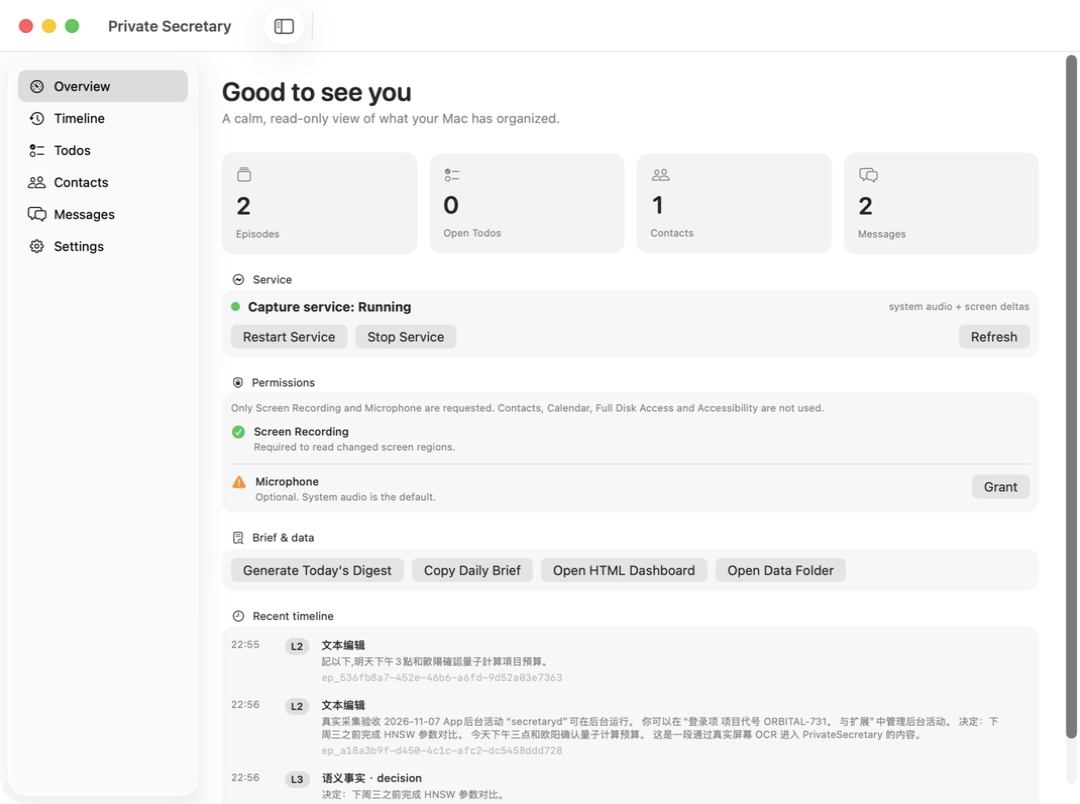
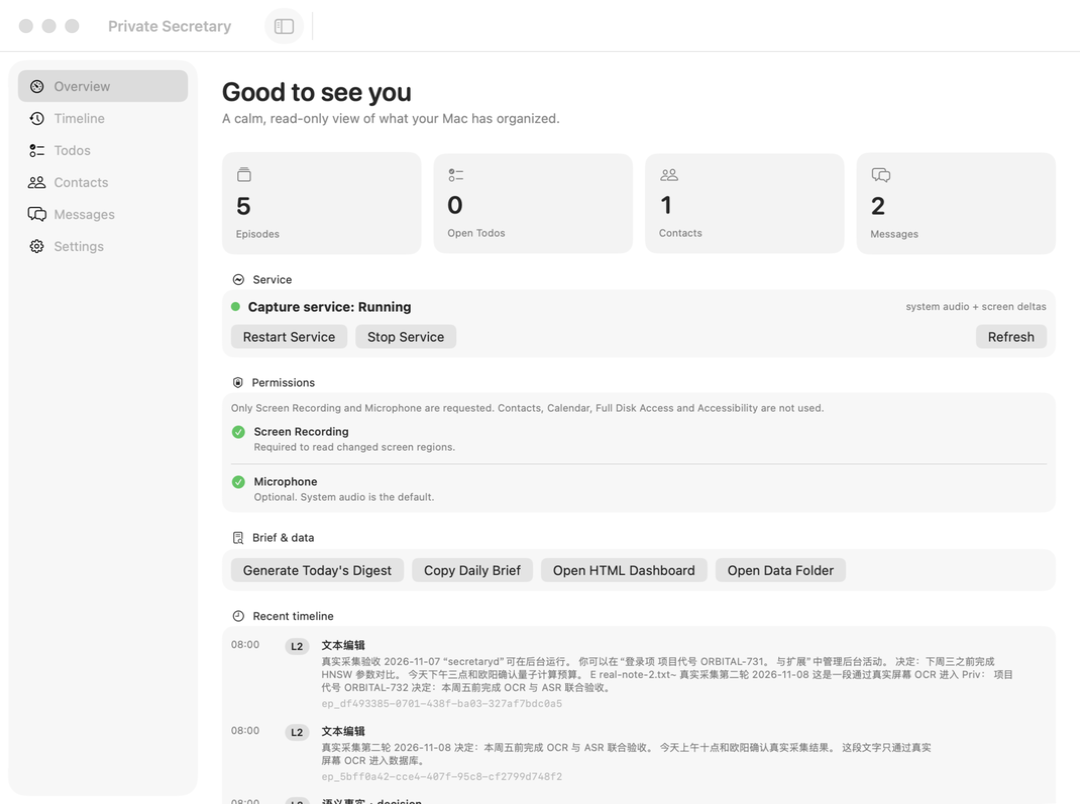
test: add second live OCR/ASR round and real-data review acceptance

diff --git a/docs/REAL-DATA-E2E-REPORT.md b/docs/REAL-DATA-E2E-REPORT.md
@@ -71,7 +71,29 @@ ep_536fb8a7-452e-46b6-a6fd-9d52a03e7363
 
 按产品规则，**system audio 不生成 todo**，所以这条只进入 L2 记忆。
 
-### 2.3 渠道消息
+### 2.3 第二轮真实采集（2026-11-08）
+
+继续在同一个真实 daemon 上展示新文件并播放新语音：
+
+```text
+真实采集第二轮 2026-11-08
+项目代号 ORBITAL-732。
+决定：本周五前完成 OCR 与 ASR 联合验收。
+今天上午十点和欧阳确认真实采集结果。
+```
+
+产生：
+
+```text
+ep_df493385-...  屏幕切换/旧+新内容 OCR
+ep_5bff0a42-...  ORBITAL-732 屏幕 OCR
+ep_0f6b7ef5-...  ASR：記一下,本週五前完成真實屏幕和語音的聯合宴收。
+fact_0a345915-...  真实采集第二轮 ... 决定：本周五前完成 OCR 与 ASR 联合验收。
+```
+
+这条 pending fact 随后通过 MCP `review_fact(action:"accept")` 接受，pendingReviewFacts 回到 0。
+
+### 2.4 渠道消息
 
 没有微信/邮件账号，无法伪造“真实平台 API”；以下通过产品自带的本地 channel adapter 路径（`message import`）导入真实测试文本：
 
@@ -84,17 +106,17 @@ ep_536fb8a7-452e-46b6-a6fd-9d52a03e7363
 
 ```text
 Private Secretary 3.2.1
-Memory:   2 episodes · 1 fact
+Memory:   5 episodes · 2 facts
 People:   1 contact · 2 messages
 Todos:    1 todo (done)
-Digests:  1
+Digests:  2
 Capture:  running — system audio + screen deltas
 ```
 
 MCP `get_status` 返回：
 
 ```text
-activeFacts=1 episodes=2 contacts=1 messages=2 openTodos=0 pendingReviewFacts=0
+activeFacts=2 episodes=5 contacts=1 messages=2 openTodos=0 pendingReviewFacts=0
 capture.state=running
 ```
 
@@ -108,7 +130,7 @@ Peekaboo 4.9.8 通过 Bridge 驱动真实 `PrivateSecretary.app`。
 
 验证：
 
-- Episodes = 2；
+- Episodes = 5；
 - Open Todos = 0（todo 已通过 UI 标记 done）；
 - Contacts = 1；
 - Messages = 2；
@@ -185,7 +207,7 @@ Peekaboo Settings 验证：
 
 Peekaboo Overview：
 
-- 点击 **Generate Today's Digest**：生成真实日报，含 2 个 episodes、1 fact、1 done todo；
+- 点击 **Generate Today's Digest**：生成真实日报，最终含 5 个 episodes、2 facts、1 done todo；
 - 点击 **Copy Daily Brief**：剪贴板得到真实 timeline/todo/unread/contacts；
 - 点击 **Open HTML Dashboard**：生成 `exports/dashboard-2026-11-07.html`（0600），含 Timeline / Open todos / Unread messages / Contacts。
 
@@ -199,6 +221,7 @@ tools 19
 get_status: episodes=2, facts=1, contacts=1, messages=2, todos=0 open
 get_brief: timeline=3, unread=1, contacts=1
 recall("ORBITAL-731"): 1 result
+recall("ORBITAL-732"): 1 result
 list_todos(all): [('完成 ORBITAL-731 的 HNSW 参数对比','done')]
 list_messages: lark read, email read
 ```
@@ -244,5 +267,5 @@ peekaboo see --app com.privatesecretary.app --mode window --json
 
 ## 9. 结论
 
-真实 OCR、真实系统音频 ASR、L2/L3、真实 UI 浏览/搜索/输入/todo 状态/已读、digest、dashboard、clipboard、MCP 均通过。  
+真实 OCR、真实系统音频 ASR（两轮）、L2/L3、真实 UI 浏览/搜索/输入/todo 状态/已读、review accept、digest、dashboard、clipboard、MCP 均通过。  
 唯一阻断“安装后自动采集”的是 `PrivateSecretary.app` 的 GUI TCC 授权，需要在系统设置中手动打开一次。

diff --git a/CHANGELOG.md b/CHANGELOG.md
@@ -4,7 +4,7 @@
 
 真实采集验证与小修复。
 
-- 真实 OCR/ASR 采集测试：2 episodes、1 fact、1 todo、1 contact、2 messages。
+- 真实 OCR/ASR 采集测试：5 episodes、2 facts、1 todo、1 contact、2 messages。
 - 修复 LaunchAgent consolidate 模板占位符导致的 CLI 路径错误。
 - 菜单栏改为 `NSStatusItem` + AppKit 窗口；刘海屏遮挡时自动切 Dock/窗口 fallback。
 - 增加真实采集 E2E 报告和截图。
@@ -22,7 +22,7 @@
 - `scripts/install-agent.sh`：Codex / Claude Desktop / Cursor / generic MCP 配置。
 - `AGENT-INTEGRATION.md`、`AGENT-POLICY.md`、generic MCP 示例。
 - `make app-test`、`make agent-test`。
-- 真实采集验证：ScreenCaptureKit 屏幕 OCR + 系统音频 whisper.cpp，2 episodes / 1 fact / 1 todo / 1 contact / 2 messages。
+- 真实采集验证：ScreenCaptureKit 屏幕 OCR + 系统音频 whisper.cpp，5 episodes / 2 facts / 1 todo / 1 contact / 2 messages。
 - 修复 LaunchAgent consolidate 模板占位符，新增 install-test 断言。
 - 菜单栏 App 改为 `NSStatusItem` + AppKit 窗口；刘海屏 status item 被遮挡时自动切 Dock/窗口 fallback。
 

diff --git a/README.md b/README.md
@@ -25,7 +25,7 @@
 | Vision OCR | 本机真实图片识别通过 |
 | whisper.cpp ASR | 本机真实语音模型调用通过（可选模型） |
 | 本地软件栈 E2E | **通过**（socket → SQLite → MCP → CLI → dashboard → digest） |
-| 真实采集 E2E | **通过**：2 条真实 OCR/ASR episode、1 fact、1 todo、联系人消息、UI/MCP 全链路 |
+| 真实采集 E2E | **通过**：5 条真实 OCR/ASR episode、2 facts、1 todo、联系人消息、review、UI/MCP 全链路 |
 | ScreenCaptureKit | **真实屏幕 OCR + 系统音频 ASR 已验证**（见真实采集报告）；App 自身 TCC 仍需授权 |
 | LaunchAgent 安装 | 隔离 HOME 安装/卸载/清除通过；真实登录会话未测试 |
 | Codex 模型驱动闭环 | 未完成（本机账户模型不支持 + usage limit） |

diff --git a/docs/TEST-REPORT.md b/docs/TEST-REPORT.md
@@ -251,7 +251,7 @@ SOAK PASSED (p95 target 120ms)
 
 ## 9.1 真实采集
 
-真实屏幕 OCR、系统音频 ASR、App UI（Peekaboo）、MCP 真实数据测试见 [真实采集 E2E 报告](REAL-DATA-E2E-REPORT.md)。本轮真实数据为 2 episodes、1 fact、1 todo、1 contact、2 messages、1 digest。
+真实屏幕 OCR、系统音频 ASR、App UI（Peekaboo）、MCP 真实数据测试见 [真实采集 E2E 报告](REAL-DATA-E2E-REPORT.md)。本轮真实数据为 5 episodes、2 facts、1 todo、1 contact、2 messages、2 digests。
 
 ## 10. E2E
 

diff --git a/docs/E2E-TEST-REPORT.md b/docs/E2E-TEST-REPORT.md
@@ -111,7 +111,7 @@ make agent-test
 Screen Recording: Granted（Terminal 启动的 daemon）
 真实系统音频 ASR: 通过（whisper.cpp）
 真实屏幕 OCR: 通过（Vision）
-2 episodes, 1 fact, 1 todo, 1 contact, 2 messages
+5 episodes, 2 facts, 1 todo, 1 contact, 2 messages, 2 digests
 ```
 
 详细证据、截图与 Peekaboo UI 操作见 [真实采集 E2E 报告](REAL-DATA-E2E-REPORT.md)。
